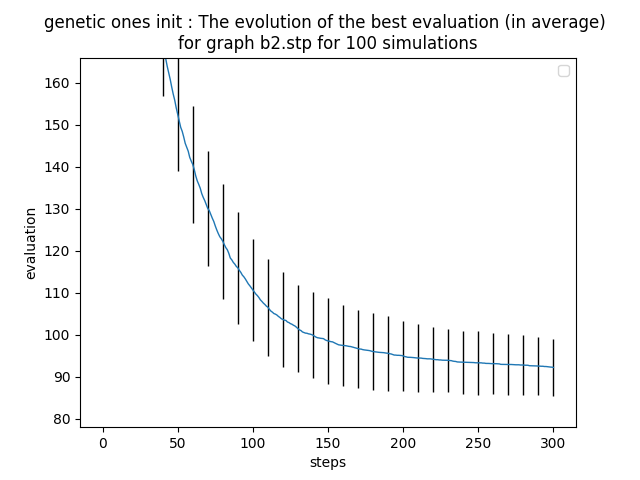
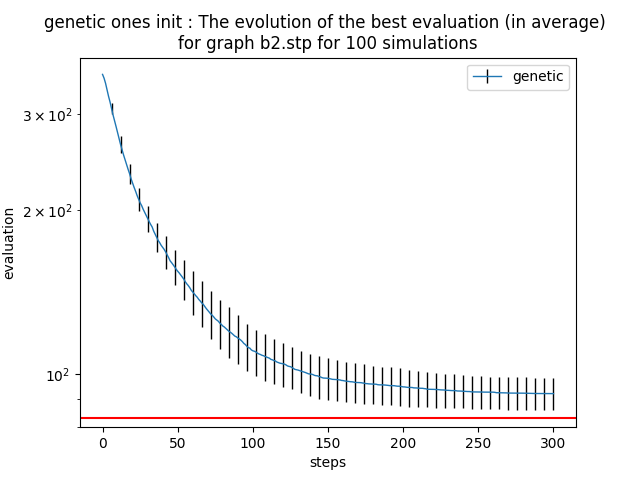
genetic tests

diff --git a/main.py b/main.py
@@ -87,7 +87,7 @@ def plotEvaluation(results,nbr_file : int,path : str, labels = [""],target_name 
     :param nbr_file : wich file we are evaluating
     :param path : the path to the file
     :params labels : labels of the plots
-    :param target_name : name of the target evaluation function
+    :param target_name : name of the target evaluation function (used for the name of the saved png)
     :return : none
     """
     fig,ax = plt.subplots(1,1)
@@ -103,7 +103,7 @@ def plotEvaluation(results,nbr_file : int,path : str, labels = [""],target_name 
     
         error_values = [0 for i in range(len(average_values))]
         for j in range(len(error_values)):
-            if j%10==0 :
+            if j%int(len(error_values)/50)==0 :
                 for i in range(len(data)):
                     error_values[j] += (data[i][j] - average_values[j])**2
                 error_values[j] = np.sqrt(error_values[j]/number_of_simulation)
@@ -119,7 +119,7 @@ def plotEvaluation(results,nbr_file : int,path : str, labels = [""],target_name 
         
         ax.errorbar(range(len(average_values)),average_values,yerr = error_values, ecolor = "black", linewidth = 1, elinewidth = 1, label = labels[res])
             
-        
+    
         #ax.ylim((opt-5,max(opt*2,average_values[-1]+10)))
     plt.title(f'{target_name} : The evolution of the best evaluation (in average) \nfor graph {tfile}{nbr_file}.stp for {number_of_simulation} simulations')
     plt.xlabel("steps")
@@ -171,15 +171,24 @@ if __name__ == '__main__' :
     nfile = 2
     path = "data/B/b"
 
-    simulation_genetic(nfile,path,number_of_simulation = 10,target_name = "TEST", label = "LABEL")
+    simulation_genetic(nfile,path,target_name = "genetic max_pop 30", label = "genetic")
+    #simulation_recuit(nfile,path,target_name = "", label = "recuit")
+    #plotEvaluation([]
+     #              ,nfile
+      #             ,path
+       #            ,target_name = ""
+        #           ,labels = [])
 
+    #simulation_genetic(nfile,path,number_of_simulation = 10,target_name = "TEST", label = "LABEL")
+    #simulation_recuit(nfile,path,number_of_simulation = 10,target_name = "TEST", label = "LABEL")
     
     #number_of_simulation = 100
     #simulation_genetic(nfile,path,target_name = "genetic max_pop 5")
-    #plotEvaluation([simulation(100,nfile,path,AA.eval_file)
-     #               ,simulation(100,nfile,path,AA.eval_file_m)]
-      #             ,nfile
-       #            ,path, target_name = "recuit diff multiple simple")
+    #plotEvaluation([simulation(10,nfile,path,AA.eval_file)
+    #                ,simulation(10,nfile,path,AA.eval_file_m)]
+    #               ,nfile
+    #               ,path, target_name = "TEST"
+    #               ,labels = ["recuit","recuit multiple"])
     
     #simulation_recuit(nfile,path,target_name = "recuit multiple 2000 10")
     #plotEvaluation([simulation(10,nfile,path,AA.eval_file),

diff --git a/Genetic_Algorithm.py b/Genetic_Algorithm.py
@@ -9,7 +9,7 @@ import copy as cp
 stein_file = "data/B/b1.stp"
 #stein_file = "data/test.std"
 
-def genetic(graph, terms, nb_iter=100, taille_max_population = 15):
+def genetic(graph, terms, nb_iter=100, taille_max_population = 30):
     """
     This is the main.
     :param graph: the graph for each we search a solution

diff --git a/.#main.py b/.#main.py
@@ -1,0 +1,1 @@
+eaubina@LAPTOP-3H33QI51.44
